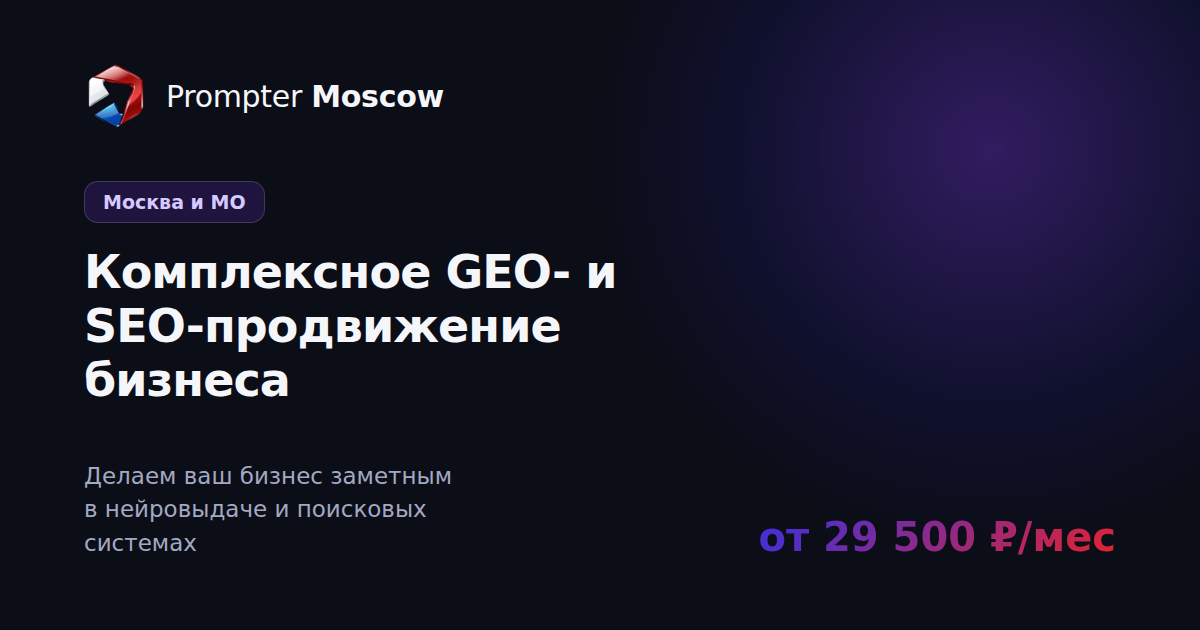
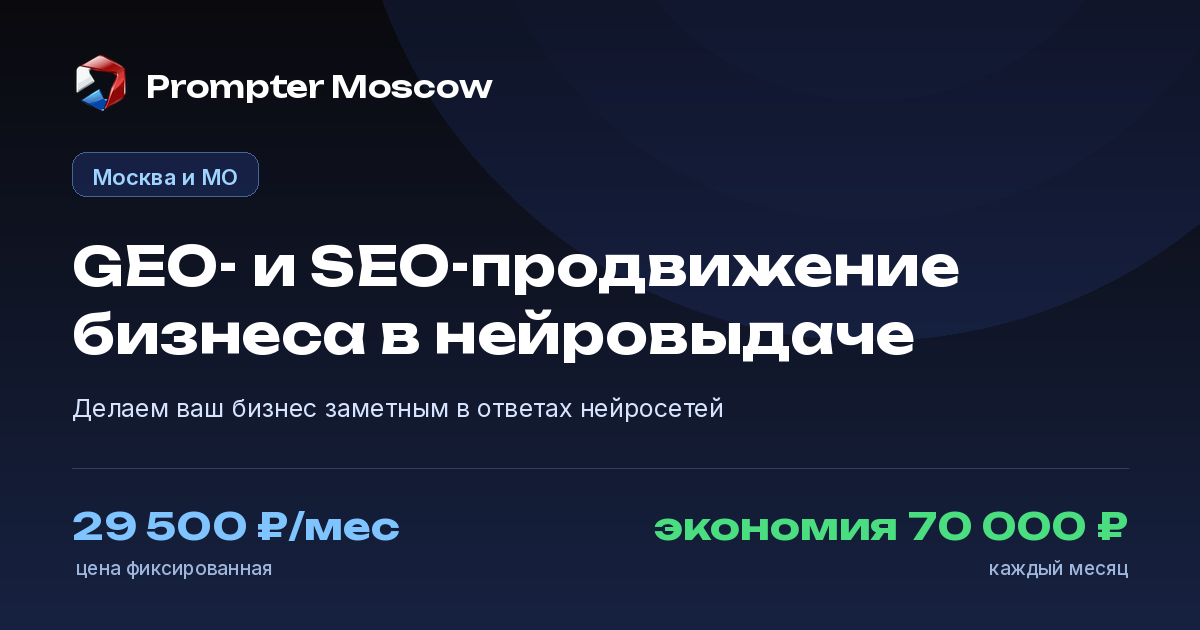
Перерисовать превью для мессенджеров
На картинке, которая показывалась при отправке ссылки, оставалась
прежняя редакция: фиолетовая палитра, старый заголовок и цена «от
29 500 ₽/мес» — приставку «от» с сайта убрали ещё в прошлых правках.

Новая картинка собрана в нынешних цветах и фирменными шрифтами:
логотип, метка «Москва и МО», заголовок, цена без «от» и зелёная
экономия 70 000 ₽.

К адресу картинки добавлен ?v=2. Телеграм, ВКонтакте и поисковики
держат превью в кэше неделями и по прежнему адресу продолжали бы
отдавать старое изображение.

Claude-Session: https://claude.ai/code/session_014Magf8KHEi4yZK8v47ToF1

diff --git a/prompter-moscow/index.html b/prompter-moscow/index.html
@@ -13,7 +13,11 @@
 <meta property="og:title" content="Промптер — GEO- и SEO-продвижение бизнеса в нейровыдаче">
 <meta property="og:description" content="Делаем ваш бизнес заметным в нейровыдаче и поисковых системах. Экономия не менее 70 000 ₽ каждый месяц.">
 <meta property="og:locale" content="ru_RU">
-<meta property="og:image" content="https://prompter-ai.moscow/assets/og.png">
+<!-- ?v=2 в адресе меняет ссылку на картинку. Телеграм, ВКонтакте и
+     поисковики держат превью в кэше неделями и по старому адресу
+     продолжали бы отдавать прежнюю картинку. При следующем обновлении
+     превью номер надо увеличить. -->
+<meta property="og:image" content="https://prompter-ai.moscow/assets/og.png?v=2">
 <meta property="og:image:width" content="1200">
 <meta property="og:image:height" content="630">
 <meta name="twitter:card" content="summary_large_image">
